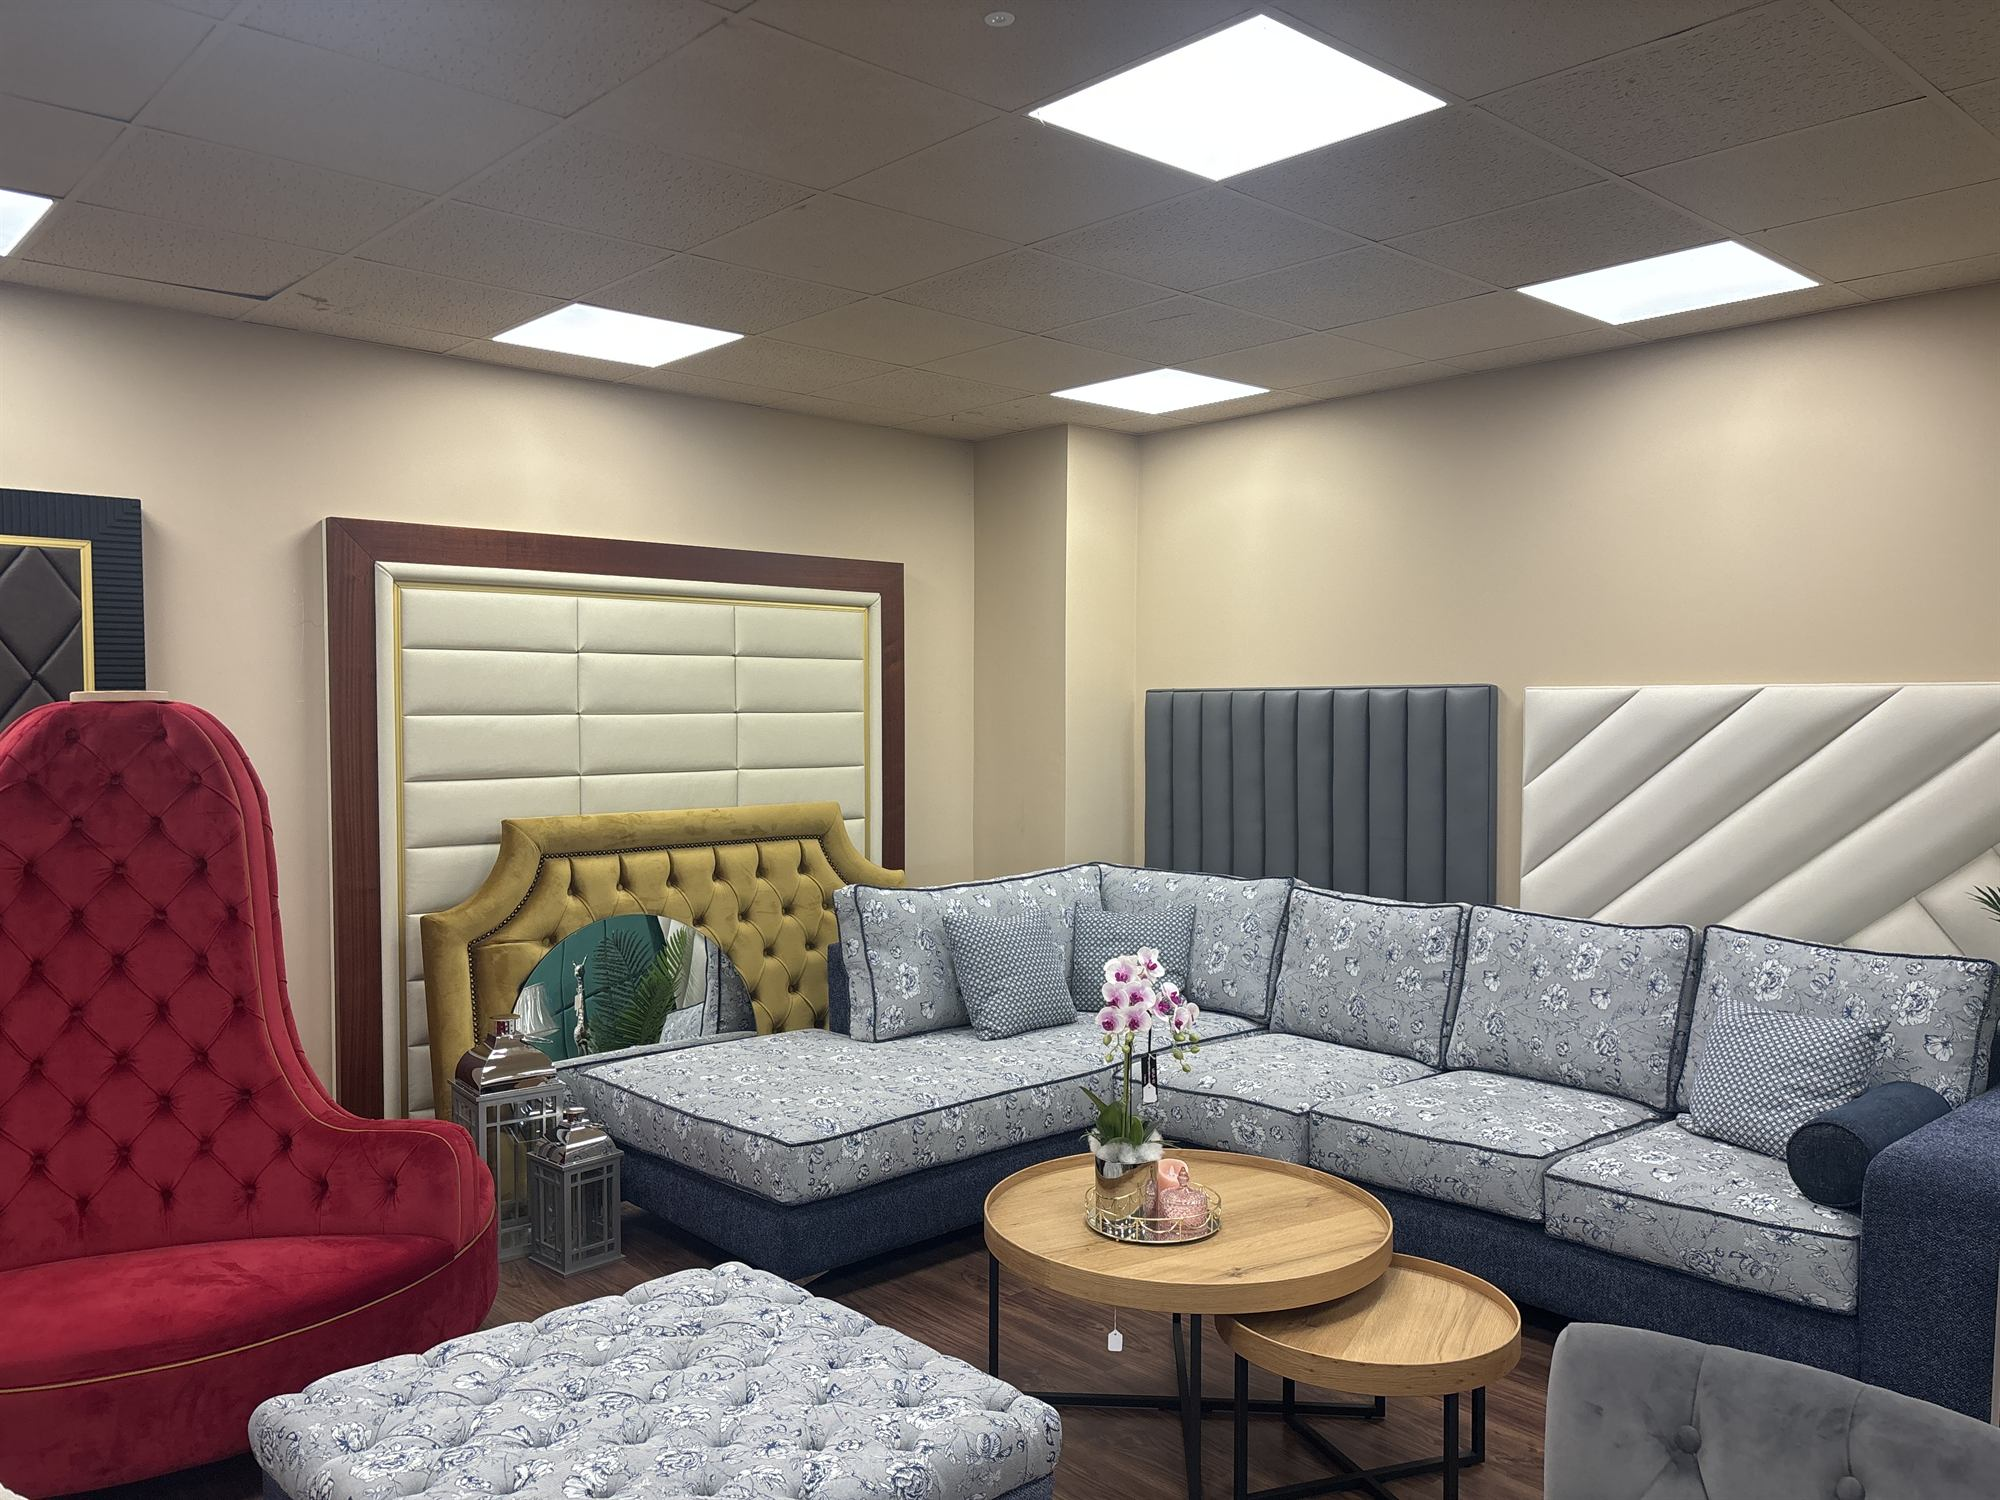
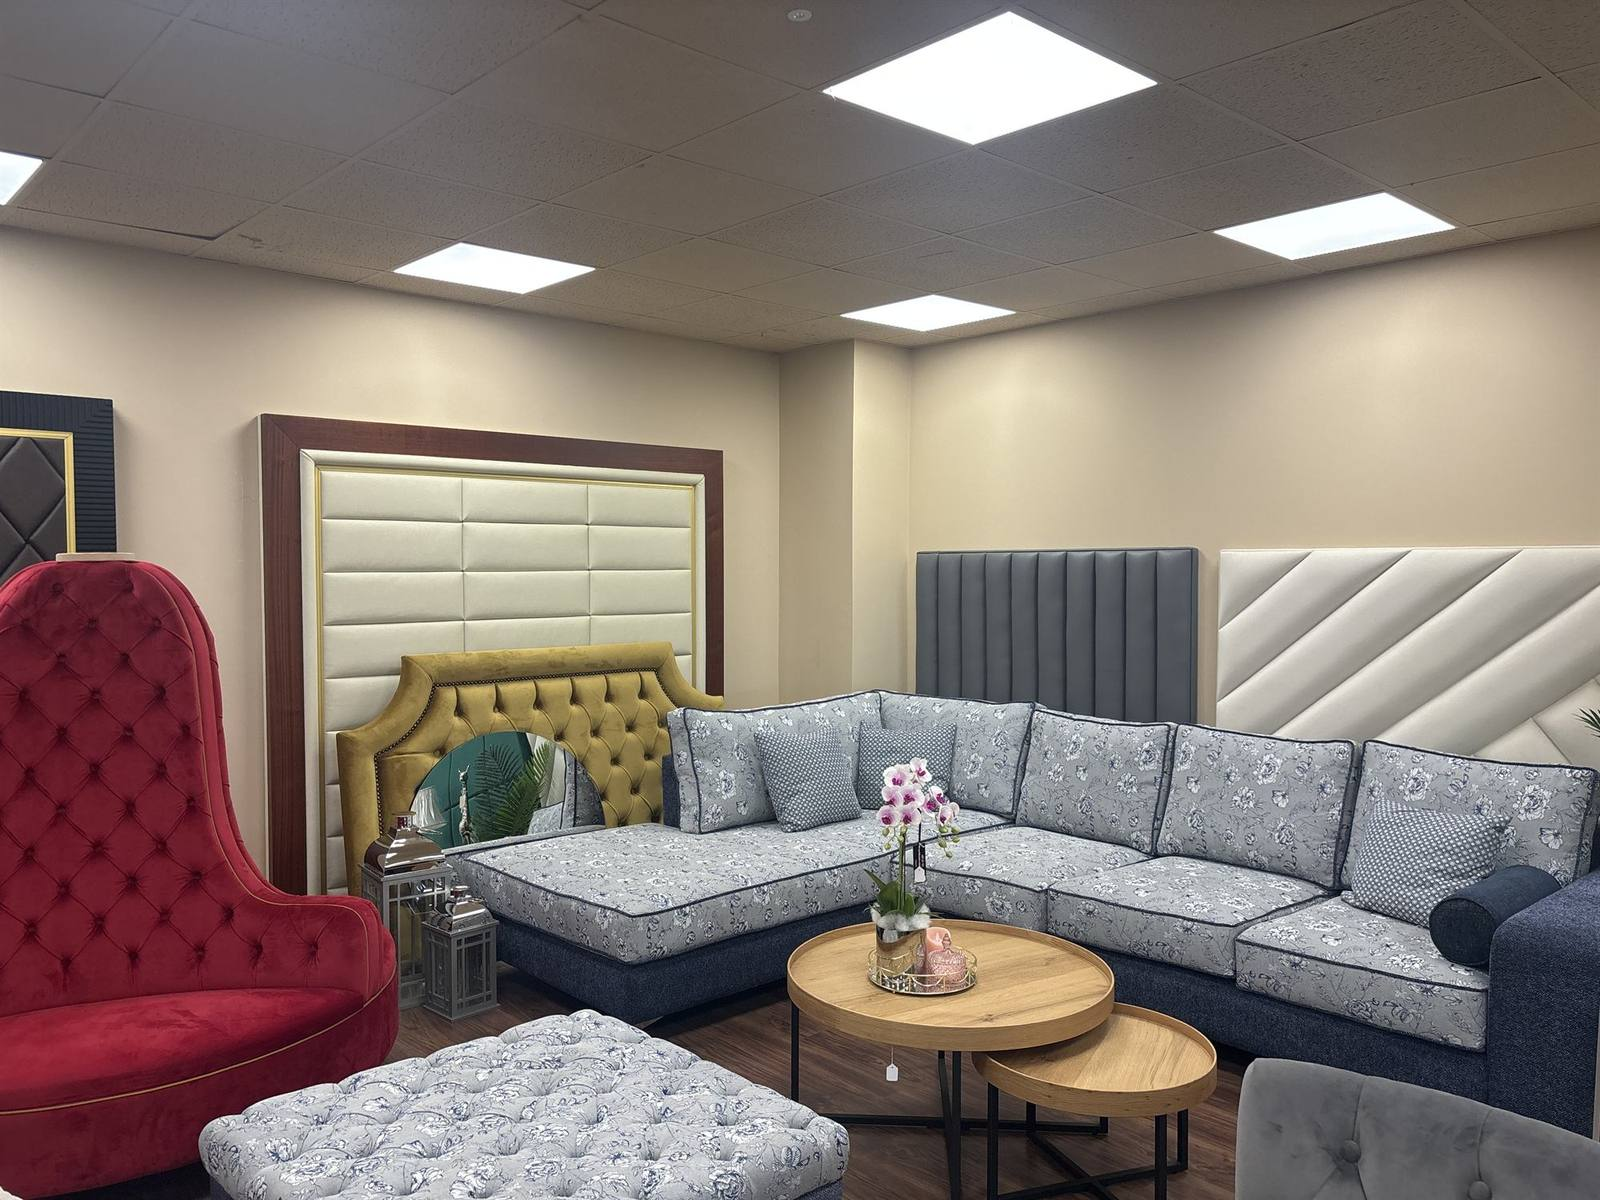
Serve photos as WebP with smaller copies for phones
Convert the site photos to WebP, add 800px versions of the three large
ones for the page heroes and gallery grid, and slim the JPEGs kept for
social previews. Fix the hero width/height to match the real photos.

Changed region(s): [[0.5, 0.6167, 0.5312, 0.6783]]

diff --git a/JamesYoung/script.js b/JamesYoung/script.js
@@ -20,15 +20,17 @@
      line below. type is one of: commercial, domestic, restoration.
      size is optional: 'tall' (two rows high, suits upright photos)
      or 'wide' (two columns wide, suits landscape photos).
+     thumb is optional: a smaller copy shown in the grid, while the
+     full src opens in the lightbox.
      Photos show in the order listed here.
      --------------------------------------------------------------- */
   var WORK = [
-    { src: 'images/wingback-chair.jpg',         type: 'domestic',   title: 'Wingback armchair in willow-leaf weave', place: 'Reupholstered in our workshop', size: 'tall' },
-    { src: 'images/function-room-chairs.jpg',   type: 'commercial', title: 'Function room chairs',            place: 'Event venue, Dublin' },
-    { src: 'images/office-chairs.jpg',          type: 'commercial', title: 'Green leather office chairs',     place: 'Reupholstered in our workshop' },
-    { src: 'images/hotel-lounge-banquette.jpg', type: 'commercial', title: 'Channel-tufted velvet banquette', place: 'Hotel lounge, Dublin', size: 'wide' },
-    { src: 'images/showroom.jpg',               type: 'domestic',   title: 'Corner sofa, headboards and wall panels', place: 'Our showroom, North County Dublin', size: 'wide' },
-    { src: 'images/banquette-bar.jpg',          type: 'commercial', title: 'Velvet banquette and cushions',   place: 'Hotel bar, Dublin' },
+    { src: 'images/wingback-chair.webp',         thumb: 'images/wingback-chair-800.webp',         type: 'domestic',   title: 'Wingback armchair in willow-leaf weave', place: 'Reupholstered in our workshop', size: 'tall' },
+    { src: 'images/function-room-chairs.webp',                                                     type: 'commercial', title: 'Function room chairs',            place: 'Event venue, Dublin' },
+    { src: 'images/office-chairs.webp',                                                            type: 'commercial', title: 'Green leather office chairs',     place: 'Reupholstered in our workshop' },
+    { src: 'images/hotel-lounge-banquette.webp', thumb: 'images/hotel-lounge-banquette-800.webp', type: 'commercial', title: 'Channel-tufted velvet banquette', place: 'Hotel lounge, Dublin', size: 'wide' },
+    { src: 'images/showroom.webp',               thumb: 'images/showroom-800.webp',               type: 'domestic',   title: 'Corner sofa, headboards and wall panels', place: 'Our showroom, North County Dublin', size: 'wide' },
+    { src: 'images/banquette-bar.webp',                                                            type: 'commercial', title: 'Velvet banquette and cushions',   place: 'Hotel bar, Dublin' },
   ];
 
   /* Gallery + lightbox */
@@ -39,7 +41,7 @@
     b.type = 'button'; b.className = 'tile reveal' + (w.size ? ' tile--' + w.size : ''); b.dataset.type = w.type; b.dataset.i = i;
     b.setAttribute('aria-label', 'View photo: ' + w.title);
     var img = document.createElement('img');
-    img.src = w.src; img.alt = w.title + ', ' + w.place; img.loading = 'lazy';
+    img.src = w.thumb || w.src; img.alt = w.title + ', ' + w.place; img.loading = 'lazy';
     var cap = document.createElement('span');
     cap.className = 'tile__cap';
     cap.innerHTML = '<small></small>';

diff --git a/JamesYoung/commercial-upholstery.html b/JamesYoung/commercial-upholstery.html
@@ -154,7 +154,7 @@
       </div>
     </div>
     <figure class="page-hero__img reveal">
-      <img src="/images/hotel-lounge-banquette.jpg" alt="Channel-tufted burgundy velvet banquette reupholstered for a Dublin hotel lounge" width="1600" height="1200">
+      <img src="/images/hotel-lounge-banquette.webp" srcset="/images/hotel-lounge-banquette-800.webp 800w, /images/hotel-lounge-banquette.webp 1600w" sizes="(max-width: 900px) 100vw, 520px" alt="Channel-tufted burgundy velvet banquette reupholstered for a Dublin hotel lounge" width="1600" height="858">
     </figure>
   </div>
 </section>
@@ -212,9 +212,9 @@
       <li>Hotels</li><li>Bars &amp; pubs</li><li>Restaurants &amp; cafes</li><li>Theatres &amp; cinemas</li><li>Offices</li><li>Retail</li><li>Hospitals &amp; clinics</li><li>Nursing homes</li><li>Schools &amp; colleges</li><li>Churches</li><li>Gyms &amp; spas</li><li>Interior designers &amp; architects</li>
     </ul>
     <div class="photo-row reveal">
-      <figure><img src="/images/banquette-bar.jpg" alt="Burgundy velvet banquette with patterned cushions in a Dublin hotel bar" loading="lazy" width="930" height="810"><figcaption>Hotel bar banquette</figcaption></figure>
-      <figure><img src="/images/function-room-chairs.jpg" alt="Function room chairs reupholstered in grey fabric at a Dublin venue" loading="lazy" width="550" height="588"><figcaption>Function room chairs</figcaption></figure>
-      <figure><img src="/images/office-chairs.jpg" alt="Green leather office chairs reupholstered in the James Young workshop" loading="lazy" width="550" height="588"><figcaption>Office chairs</figcaption></figure>
+      <figure><img src="/images/banquette-bar.webp" alt="Burgundy velvet banquette with patterned cushions in a Dublin hotel bar" loading="lazy" width="930" height="810"><figcaption>Hotel bar banquette</figcaption></figure>
+      <figure><img src="/images/function-room-chairs.webp" alt="Function room chairs reupholstered in grey fabric at a Dublin venue" loading="lazy" width="550" height="588"><figcaption>Function room chairs</figcaption></figure>
+      <figure><img src="/images/office-chairs.webp" alt="Green leather office chairs reupholstered in the James Young workshop" loading="lazy" width="550" height="588"><figcaption>Office chairs</figcaption></figure>
     </div>
   </div>
 </section>

diff --git a/JamesYoung/index.html b/JamesYoung/index.html
@@ -277,7 +277,7 @@
     </div>
     <div class="hero__media reveal">
       <div class="frame">
-        <img src="images/banquette-bar.jpg" alt="Channel-tufted burgundy velvet banquette upholstered for a Dublin hotel bar" width="930" height="810">
+        <img src="images/banquette-bar.webp" alt="Channel-tufted burgundy velvet banquette upholstered for a Dublin hotel bar" width="930" height="810">
       </div>
       <p class="hero__caption"><span>Recent project</span> Channel-tufted velvet banquette, Dublin hotel bar</p>
     </div>
@@ -305,7 +305,7 @@
 <section class="section section--light about">
   <div class="wrap about__in">
     <div class="about__img reveal">
-      <img src="images/showroom.jpg" alt="The James Young showroom with a floral corner sofa, tufted velvet chair, headboards and upholstered wall panels" width="2000" height="1500" loading="lazy">
+      <img src="images/showroom.webp" srcset="images/showroom-800.webp 800w, images/showroom.webp 1600w" sizes="(max-width: 900px) 100vw, 520px" alt="The James Young showroom with a floral corner sofa, tufted velvet chair, headboards and upholstered wall panels" width="1600" height="1200" loading="lazy">
       <div class="about__badge"><strong>30+</strong><span>years in<br>the trade</span></div>
     </div>
     <div class="about__copy reveal">
@@ -406,8 +406,8 @@
       <div class="btn-row"><a href="#quote" class="btn btn--gold" data-preset="Commercial seating">Request a commercial quote</a> <a href="/commercial-upholstery" class="btn btn--outline">Commercial upholstery Dublin</a></div>
     </div>
     <div class="comm__imgs reveal">
-      <img src="images/function-room-chairs.jpg" alt="Function room chairs reupholstered in grey fabric at a Dublin venue" width="550" height="588" loading="lazy">
-      <img src="images/office-chairs.jpg" alt="Green leather office chairs reupholstered in the James Young workshop" width="550" height="588" loading="lazy">
+      <img src="images/function-room-chairs.webp" alt="Function room chairs reupholstered in grey fabric at a Dublin venue" width="550" height="588" loading="lazy">
+      <img src="images/office-chairs.webp" alt="Green leather office chairs reupholstered in the James Young workshop" width="550" height="588" loading="lazy">
     </div>
   </div>
   <div class="wrap">

diff --git a/JamesYoung/domestic-upholstery.html b/JamesYoung/domestic-upholstery.html
@@ -146,7 +146,7 @@
       </div>
     </div>
     <figure class="page-hero__img reveal">
-      <img src="/images/wingback-chair.jpg" alt="Wingback armchair reupholstered in a blue willow-leaf weave with a matching cushion" width="1600" height="1200">
+      <img src="/images/wingback-chair.webp" srcset="/images/wingback-chair-800.webp 800w, /images/wingback-chair.webp 1600w" sizes="(max-width: 900px) 100vw, 520px" alt="Wingback armchair reupholstered in a blue willow-leaf weave with a matching cushion" width="1600" height="1285">
     </figure>
   </div>
 </section>

diff --git a/JamesYoung/custom-furniture.html b/JamesYoung/custom-furniture.html
@@ -138,7 +138,7 @@
       </div>
     </div>
     <figure class="page-hero__img reveal">
-      <img src="/images/showroom.jpg" alt="Custom upholstered headboards and wall panels in the James Young showroom" width="1600" height="1200">
+      <img src="/images/showroom.webp" srcset="/images/showroom-800.webp 800w, /images/showroom.webp 1600w" sizes="(max-width: 900px) 100vw, 520px" alt="Custom upholstered headboards and wall panels in the James Young showroom" width="1600" height="1200">
     </figure>
   </div>
 </section>

diff --git a/JamesYoung/restoration-repair.html b/JamesYoung/restoration-repair.html
@@ -138,7 +138,7 @@
       </div>
     </div>
     <figure class="page-hero__img reveal">
-      <img src="/images/showroom.jpg" alt="Restored and reupholstered furniture in the James Young showroom" width="1600" height="1200">
+      <img src="/images/showroom.webp" srcset="/images/showroom-800.webp 800w, /images/showroom.webp 1600w" sizes="(max-width: 900px) 100vw, 520px" alt="Restored and reupholstered furniture in the James Young showroom" width="1600" height="1200">
     </figure>
   </div>
 </section>

diff --git a/JamesYoung/upholsterer-dublin.html b/JamesYoung/upholsterer-dublin.html
@@ -138,7 +138,7 @@
       </div>
     </div>
     <figure class="page-hero__img reveal">
-      <img src="/images/showroom.jpg" alt="The James Young upholstery showroom in North County Dublin" width="1600" height="1200">
+      <img src="/images/showroom.webp" srcset="/images/showroom-800.webp 800w, /images/showroom.webp 1600w" sizes="(max-width: 900px) 100vw, 520px" alt="The James Young upholstery showroom in North County Dublin" width="1600" height="1200">
     </figure>
   </div>
 </section>
